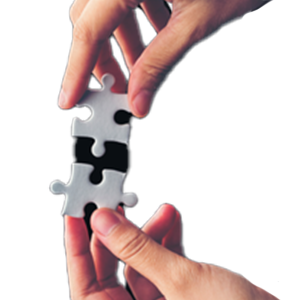
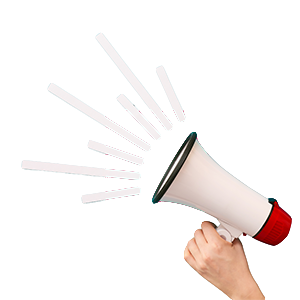
Small fixes

diff --git a/pages/for-creators.vue b/pages/for-creators.vue
@@ -97,14 +97,14 @@
             <div
               v-for="(reason, key) in item"
               :key="key"
-              class="grid flex-grow grid-cols-5 border-white border-1 rounded-8px"
+              class="grid flex-grow grid-cols-4 border-white border-1 rounded-8px"
             >
               <p
-                class="col-span-5 text-lg font-bold text-primary-500 px-24px pt-16px"
+                class="col-span-4 text-lg font-bold text-primary-500 px-16px pt-16px"
               >
                 {{ reason.title }}
               </p>
-              <p class="col-span-4 text-white text-md px-24px pb-16px">
+              <p class="col-span-3 text-white text-md px-16px pb-16px">
                 {{ reason.description }}
               </p>
 
@@ -128,16 +128,16 @@
           <div
             v-for="(reason, key) in reasons"
             :key="key"
-            class="grid grid-cols-5 border-white border-1 rounded-8px"
+            class="grid grid-cols-4 border-white border-1 rounded-8px"
           >
-            <div class="col-span-4 p-24px">
-              <p class="text-lg font-bold text-primary-500">
-                {{ reason.title }}
-              </p>
-              <p class="text-white text-md">
-                {{ reason.description }}
-              </p>
-            </div>
+            <p
+              class="col-span-4 text-lg font-bold text-primary-500 px-16px pt-16px"
+            >
+              {{ reason.title }}
+            </p>
+            <p class="col-span-3 text-white text-md px-16px pb-16px">
+              {{ reason.description }}
+            </p>
 
             <div class="relative">
               <img

diff --git a/components/for-creators/Content.vue b/components/for-creators/Content.vue
@@ -5,11 +5,8 @@
       :class="viewport.isLessThan('tablet') ? 'py-32px' : 'py-48px'"
     >
       <p
-        class="font-medium text-md"
-        :class="[
-          viewport.isLessThan('tablet') ? 'px-24px' : 'px-24px',
-          theme === 'white' ? '' : 'text-white',
-        ]"
+        class="font-medium text-md px-24px"
+        :class="theme === 'white' ? '' : 'text-white'"
       >
         It’s now easier than ever to build trust and connect with your customers
         because we’ve made creating impactful, attention-grabbing content
@@ -31,11 +28,8 @@
       </UCarousel>
 
       <p
-        class="font-medium text-md"
-        :class="[
-          viewport.isLessThan('tablet') ? 'px-24px' : 'px-24px',
-          theme === 'white' ? '' : 'text-white',
-        ]"
+        class="font-medium text-md px-24px"
+        :class="theme === 'white' ? '' : 'text-white'"
       >
         Our creators are a diverse community of all ages, backgrounds, and
         ethnicities. Covering a vast range of niches, they craft engaging

diff --git a/components/for-brands/Why.vue b/components/for-brands/Why.vue
@@ -18,16 +18,16 @@
         <div
           v-for="(reason, key) in reasons"
           :key="key"
-          class="grid grid-cols-5 border-white border-1 rounded-8px"
+          class="grid grid-cols-4 border-white border-1 rounded-8px"
         >
-          <div class="col-span-4 p-24px">
-            <p class="text-lg font-bold text-primary-500">
-              {{ reason.title }}
-            </p>
-            <p class="text-white text-md">
-              {{ reason.description }}
-            </p>
-          </div>
+          <p
+            class="col-span-4 text-lg font-bold text-primary-500 px-16px pt-16px"
+          >
+            {{ reason.title }}
+          </p>
+          <p class="col-span-3 text-white text-md px-16px pb-16px">
+            {{ reason.description }}
+          </p>
 
           <div class="relative">
             <img

diff --git a/pages/index.vue b/pages/index.vue
@@ -99,7 +99,7 @@
             <div
               v-for="(number, key) in item.numbers"
               :key="key"
-              class="flex-grow border-black rounded-md border-1 p-24px"
+              class="flex-grow border-black rounded-md border-1 p-16px"
             >
               <p class="text-5xl font-bold text-primary-500">
                 {{ number.num }}
@@ -128,7 +128,7 @@
             <div
               v-for="(number, key) in stat.numbers"
               :key="key"
-              class="flex-grow border-black rounded-md border-1 p-24px"
+              class="flex-grow border-black rounded-md border-1 p-16px"
             >
               <p class="text-5xl font-bold text-primary-500">
                 {{ number.num }}

diff --git a/components/for-brands/How.vue b/components/for-brands/How.vue
@@ -23,7 +23,7 @@
             :class="viewport.isLessThan('tablet') ? 'pr-24px' : ''"
           >
             <div
-              class="grid w-full grid-cols-5 border-white rounded-md gap-16px border-1 px-24px py-8px mb-24px"
+              class="grid w-full grid-cols-5 border-white rounded-md gap-16px border-1 px-24px py-8px mb-16px"
             >
               <p class="text-lg font-bold text-left text-white">
                 0{{ index + 1 }}

diff --git a/components/for-brands/What.vue b/components/for-brands/What.vue
@@ -23,7 +23,7 @@
             :class="viewport.isLessThan('tablet') ? 'pr-24px' : ''"
           >
             <div
-              class="grid w-full grid-cols-5 border-white rounded-md gap-16px border-1 px-24px py-8px mb-24px"
+              class="grid w-full grid-cols-5 border-white rounded-md gap-16px border-1 px-24px py-8px mb-16px"
             >
               <p class="text-lg font-bold text-left text-white">
                 0{{ index + 1 }}

diff --git a/components/for-creators/How.vue b/components/for-creators/How.vue
@@ -25,7 +25,7 @@
             :class="viewport.isLessThan('tablet') ? 'pr-24px' : ''"
           >
             <div
-              class="grid w-full grid-cols-5 border-white rounded-md gap-16px border-1 px-24px py-8px mb-24px"
+              class="grid w-full grid-cols-5 border-white rounded-md gap-16px border-1 px-24px py-8px mb-16px"
             >
               <p class="text-lg font-bold text-left text-white">
                 0{{ index + 1 }}

diff --git a/pages/new-campaign.vue b/pages/new-campaign.vue
@@ -50,7 +50,7 @@
         "
       >
         <div
-          class="border-white border-1 rounded-8px p-24px"
+          class="border-white border-1 rounded-8px p-16px"
           :class="viewport.isLessThan('tablet') ? '' : 'w-1/2'"
         >
           <UForm :state="state" class="grid grid-cols-2 gap-16px">
